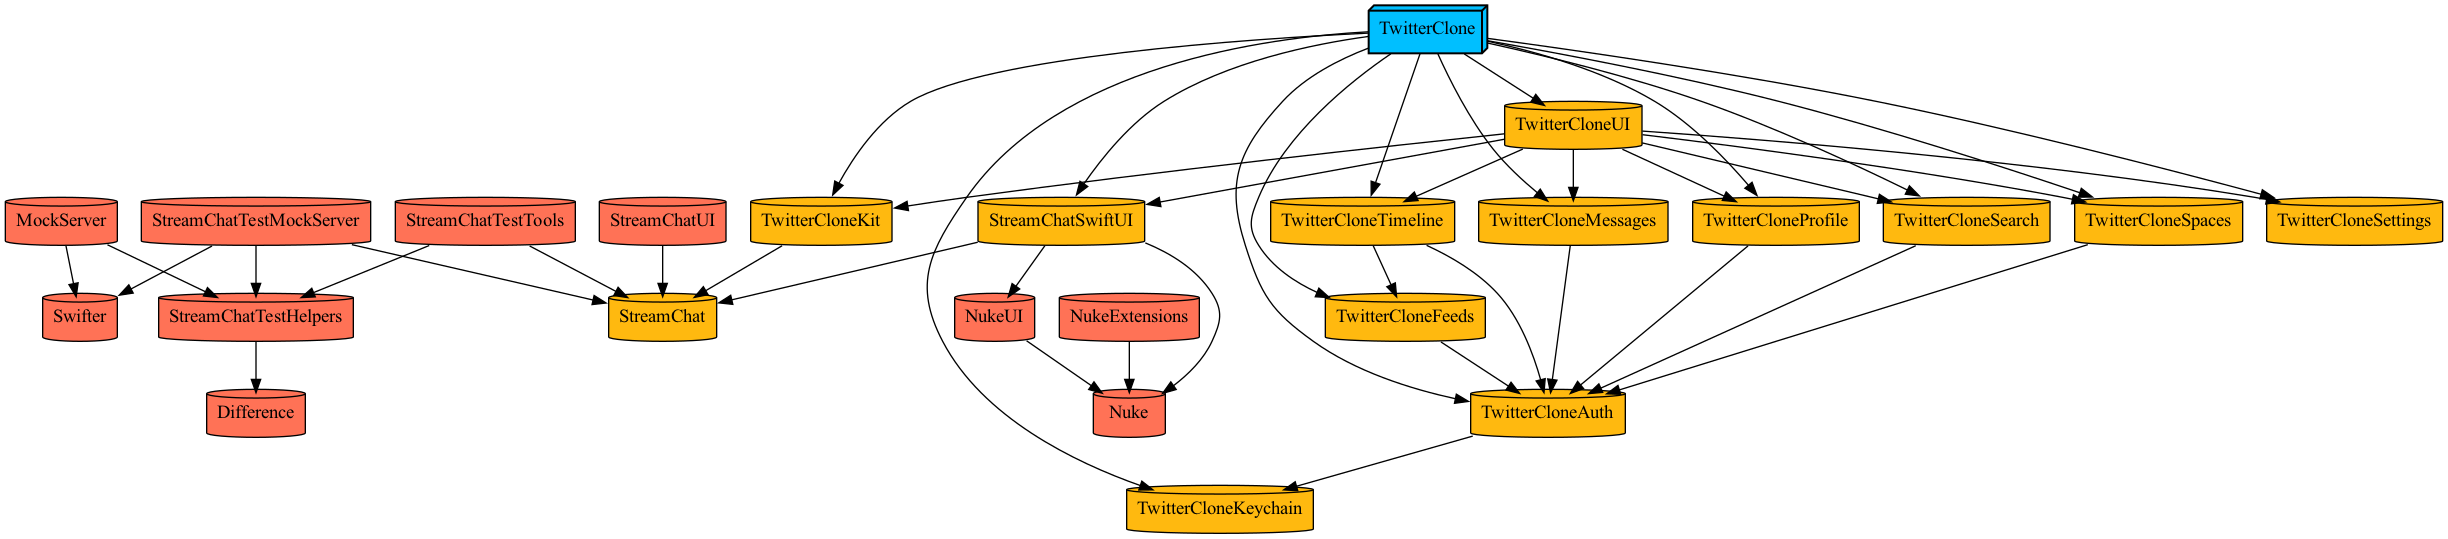
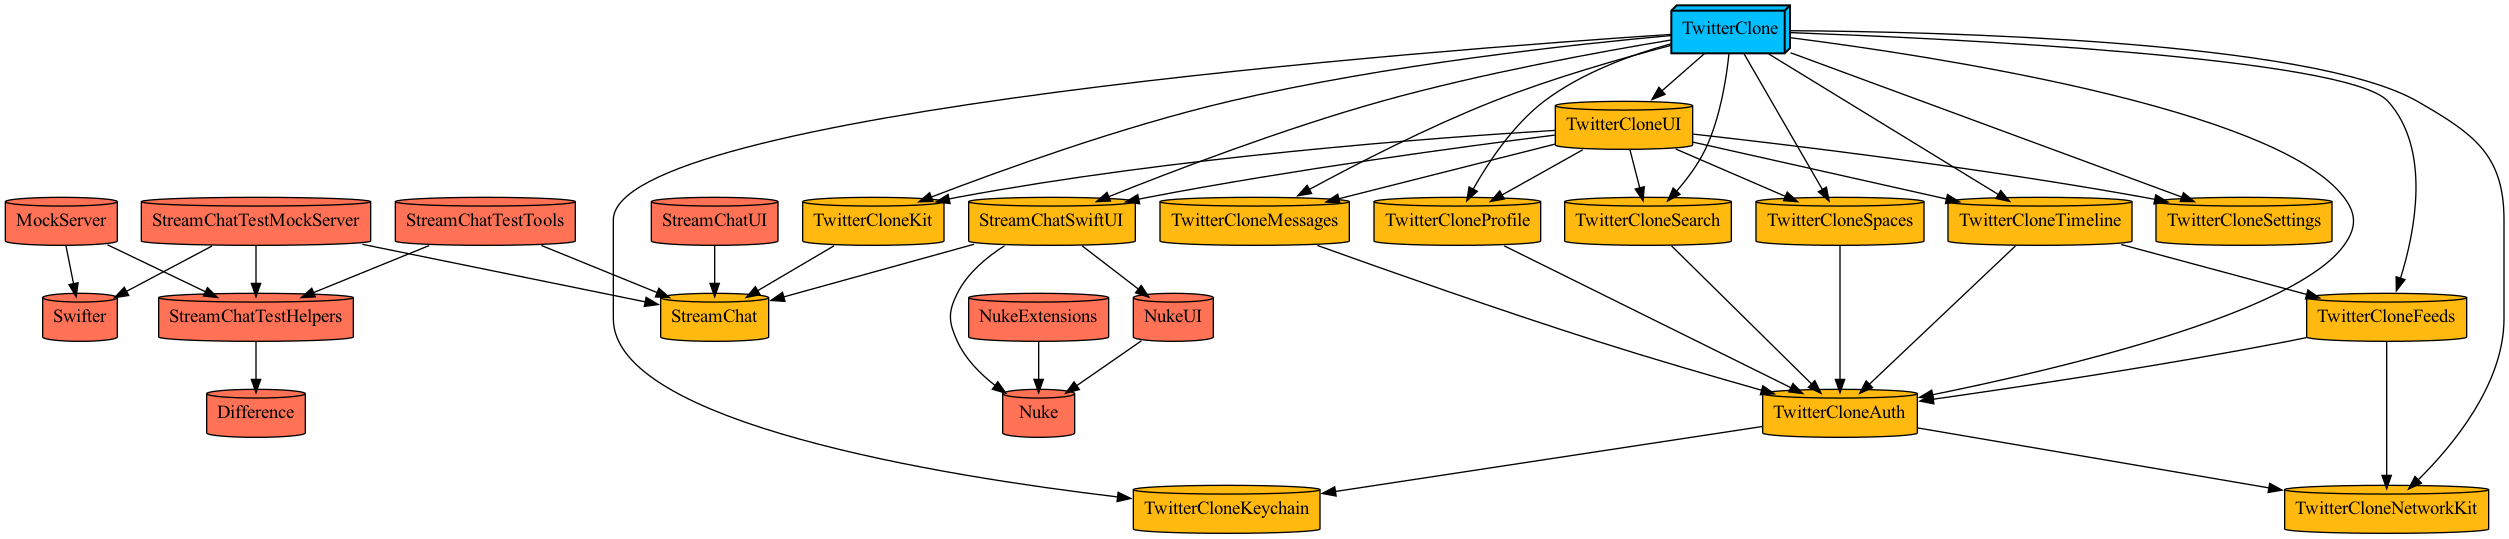
Add base feed client and networking kit

diff --git a/TwitterClone/Targets/TwitterCloneAuth/Sources/TwitterCloneAuth.swift b/TwitterClone/Targets/TwitterCloneAuth/Sources/TwitterCloneAuth.swift
@@ -1,6 +1,7 @@
 import Foundation
 
 import TwitterCloneKeychain
+import TwitterCloneNetworkKit
 
 private enum AuthKeychainKey: String {
     case feedToken
@@ -31,30 +32,43 @@ private struct LoginCredential: Encodable {
 }
 
 public enum AuthError: Error {
-    case badResponse
-    case serverError
-    case unauthorized
-    
-    case unhandled
-    
-    case noStatus
+    case noStoredAuthUser
 }
 
 public final class TwitterCloneAuth {
     let signupUrl: URL
     let loginUrl: URL
-    let jsonEncoder: JSONEncoder
-    let jsonDecoder: JSONDecoder
-
+    
     public init() {
         // TODO: Make baseUrl dynamic
         signupUrl = URL(string: "http://localhost:8080/auth/signup")!
         loginUrl = URL(string: "http://localhost:8080/auth/login")!
-
-        jsonEncoder = JSONEncoder()
-        jsonEncoder.outputFormatting = .prettyPrinted
-
-        jsonDecoder = JSONDecoder()
+    }
+    
+    public var feedToken: String? {
+        return KeyChainHelper.shared.string(forKey: AuthKeychainKey.feedToken.rawValue, requireUserpresence: false)
+    }
+    
+    public var chatToken: String? {
+        return KeyChainHelper.shared.string(forKey: AuthKeychainKey.chatToken.rawValue, requireUserpresence: false)
+    }
+    
+    public var username: String? {
+        return KeyChainHelper.shared.string(forKey: AuthKeychainKey.username.rawValue, requireUserpresence: false)
+    }
+    
+    public var userId: String? {
+        return KeyChainHelper.shared.string(forKey: AuthKeychainKey.userId.rawValue, requireUserpresence: false)
+    }
+    
+    public func storedAuthUser() throws-> AuthUser {
+        
+        guard let feedToken = KeyChainHelper.shared.string(forKey: AuthKeychainKey.feedToken.rawValue, requireUserpresence: false) else { throw AuthError.noStoredAuthUser }
+        guard let chatToken = KeyChainHelper.shared.string(forKey: AuthKeychainKey.chatToken.rawValue, requireUserpresence: false) else { throw AuthError.noStoredAuthUser }
+        guard let username = KeyChainHelper.shared.string(forKey: AuthKeychainKey.username.rawValue, requireUserpresence: false) else { throw AuthError.noStoredAuthUser }
+        guard let userId = KeyChainHelper.shared.string(forKey: AuthKeychainKey.userId.rawValue, requireUserpresence: false) else { throw AuthError.noStoredAuthUser }
+        
+        return AuthUser(feedToken: feedToken, chatToken: chatToken, username: username, userId: userId)
     }
     
     public func signup(username: String, password: String) async throws -> AuthUser {
@@ -63,20 +77,19 @@ public final class TwitterCloneAuth {
         var loginRequest = URLRequest(url: signupUrl)
         loginRequest.httpMethod = "POST"
         loginRequest.addValue("application/json", forHTTPHeaderField: "Content-Type")
-        loginRequest.httpBody = try jsonEncoder.encode(credential)
+        loginRequest.httpBody = try TwitterCloneNetworkKit.jsonEncoder.encode(credential)
 
         let (data, response) = try await URLSession.shared.data(for: loginRequest)
         let statusCode = (response as? HTTPURLResponse)?.statusCode
         
-        try checkStatusCode(statusCode: statusCode)
+        try TwitterCloneNetworkKit.checkStatusCode(statusCode: statusCode)
         
-        let jsonDecoder = jsonDecoder
-        return try jsonDecoder.decode(AuthUser.self, from: data)
+        return try TwitterCloneNetworkKit.jsonDecoder.decode(AuthUser.self, from: data)
     }
     
     public func login(username: String, password: String) async throws -> AuthUser {
         let credential = LoginCredential(username: username, password: password)
-        let postData = try jsonEncoder.encode(credential)
+        let postData = try TwitterCloneNetworkKit.jsonEncoder.encode(credential)
         
         var loginRequest = URLRequest(url: loginUrl)
         loginRequest.httpMethod = "POST"
@@ -86,29 +99,8 @@ public final class TwitterCloneAuth {
         let (data, response) = try await URLSession.shared.data(for: loginRequest)
         let statusCode = (response as? HTTPURLResponse)?.statusCode
         
-        try checkStatusCode(statusCode: statusCode)
+        try TwitterCloneNetworkKit.checkStatusCode(statusCode: statusCode)
         
-        let jsonDecoder = jsonDecoder
-        return try jsonDecoder.decode(AuthUser.self, from: data)
+        return try TwitterCloneNetworkKit.jsonDecoder.decode(AuthUser.self, from: data)
     }
-    
-    /// Checks the status code for errors
-    /// - Parameter statusCode: The response status code to check. If it does not throw it is an acceptable status.
-    private func checkStatusCode(statusCode: Int?) throws {
-        guard let statusCode = statusCode else {
-            throw AuthError.noStatus
-        }
-        
-        switch statusCode {
-        case 500:
-            throw AuthError.badResponse
-        case 400:
-            throw AuthError.unauthorized
-        case 200:
-            return
-        default:
-            throw AuthError.unhandled
-        }
-    }
-    
 }

diff --git a/TwitterClone/Project.swift b/TwitterClone/Project.swift
@@ -8,6 +8,7 @@ import MyPlugin
 let localHelper = LocalHelper(name: "MyPlugin")
 
 let kitName = "TwitterCloneKit"
+let networkKitName = "TwitterCloneNetworkKit"
 let uiName = "TwitterCloneUI"
 let authorizationName = "TwitterCloneAuth"
 let keychainName = "TwitterCloneKeychain"
@@ -27,9 +28,10 @@ let settingsTarget = Project.makeFrameworkTargets(name: settingsName, platform: 
 let timelineTarget = Project.makeFrameworkTargets(name: timelineName, platform: .iOS, dependencies: [.target(name: authorizationName), .target(name: feedsName)])
 let spacesTarget = Project.makeFrameworkTargets(name: spacesName, platform: .iOS, dependencies: [.target(name: authorizationName)])
 
-let feedsTarget = Project.makeFrameworkTargets(name: feedsName, platform: .iOS, dependencies: [.target(name: authorizationName)])
+let feedsTarget = Project.makeFrameworkTargets(name: feedsName, platform: .iOS, dependencies: [.target(name: authorizationName), .target(name: networkKitName)])
 
 let kitTarget = Project.makeFrameworkTargets(name: kitName, platform: .iOS, dependencies: [.external(name: "StreamChat")])
+let networkKitTarget = Project.makeFrameworkTargets(name: networkKitName, platform: .iOS, dependencies: [])
 let uiTarget = Project.makeFrameworkTargets(name: uiName,
                                             platform: .iOS,
                                             dependencies: [
@@ -42,7 +44,7 @@ let uiTarget = Project.makeFrameworkTargets(name: uiName,
                                                 .target(name: spacesName),
                                                 .target(name: timelineName)])
 
-let authorizationTarget = Project.makeFrameworkTargets(name: authorizationName, platform: .iOS, dependencies: [.target(name: keychainName)])
+let authorizationTarget = Project.makeFrameworkTargets(name: authorizationName, platform: .iOS, dependencies: [.target(name: keychainName), .target(name: networkKitName)])
 let keychainHelperTarget = Project.makeFrameworkTargets(name: keychainName, platform: .iOS, dependencies: [])
 
 
@@ -51,6 +53,6 @@ let project = Project.app(name: "TwitterClone",
                           platform: .iOS,
                           packages: [],
                           dependencies: [.external(name: "StreamChatSwiftUI")],
-                          additionalTargets: kitTarget + uiTarget + authorizationTarget + keychainHelperTarget + messagesTarget + profileTarget + searchTarget + settingsTarget + timelineTarget + spacesTarget + feedsTarget)
+                          additionalTargets: kitTarget + uiTarget + authorizationTarget + keychainHelperTarget + messagesTarget + profileTarget + searchTarget + settingsTarget + timelineTarget + spacesTarget + feedsTarget + networkKitTarget)
 
 

diff --git a/TwitterClone/Targets/TwitterCloneFeeds/Sources/FeedsClient.swift b/TwitterClone/Targets/TwitterCloneFeeds/Sources/FeedsClient.swift
@@ -1,0 +1,63 @@
+//
+//  FeedsClient.swift
+//  TwitterCloneFeeds
+//
+//  Created by Jeroen Leenarts on 18/01/2023.
+//  Copyright © 2023 tuist.io. All rights reserved.
+//
+
+import Foundation
+import TwitterCloneAuth
+import TwitterCloneNetworkKit
+
+enum Region: String {
+    case usEast = "https://us-east-api.stream-io-api.com/api/v1.0/"
+    case euWest = "https://eu-west-api.stream-io-api.com/api/v1.0/"
+    case singapore = "https://singapore-api.stream-io-api.com/api/v1.0/"
+}
+
+public class FeedsClient {
+    let baseUrl: URL
+    
+    let auth = TwitterCloneAuth()
+    
+    private func userFeedURL(userId: String)-> URL {
+        
+        var newURL = baseUrl.appending(component: "feed/user")
+        newURL.append(path: userId)
+        newURL.append(queryItems: [URLQueryItem(name: "api_key", value: "dn4mpr346fns")])
+        
+        return newURL
+    }
+    
+    static func productionClient(region: Region) -> FeedsClient {
+        return FeedsClient(urlString: region.rawValue)
+    }
+    
+    private init(urlString: String) {
+        baseUrl = URL(string: urlString)!
+    }
+    
+    public func getActivities() async throws -> [Activity] {
+        let session = TwitterCloneNetworkKit.restSession
+        
+        let authUser = try auth.storedAuthUser()
+
+        let userId = authUser.userId
+        let feedToken = authUser.feedToken
+        var request = URLRequest(url: userFeedURL(userId: userId))
+        request.httpMethod = "GET"
+
+        // Headers
+        request.addValue("jwt", forHTTPHeaderField: "Stream-Auth-Type")
+        request.addValue(feedToken, forHTTPHeaderField: "Authorization")
+
+        let (data, response) = try await session.data(for: request)
+        
+        let statusCode = (response as? HTTPURLResponse)?.statusCode
+        
+        try TwitterCloneNetworkKit.checkStatusCode(statusCode: statusCode)
+        
+        return try TwitterCloneNetworkKit.jsonDecoder.decode([Activity].self, from: data)
+    }
+}

diff --git a/TwitterClone/Targets/TwitterCloneNetworkKit/Sources/TwitterCloneNetworkKit.swift b/TwitterClone/Targets/TwitterCloneNetworkKit/Sources/TwitterCloneNetworkKit.swift
@@ -1,0 +1,64 @@
+import Foundation
+import StreamChat
+
+public enum StatusCodeError: Error {
+case badResponse
+case serverError
+case unauthorized
+
+case unhandled
+
+case noStatus
+}
+
+public final class TwitterCloneNetworkKit {
+    public static func hello() {
+        print("Hello, from your Kit framework")
+    }
+    
+    /// Checks the status code for errors
+    /// - Parameter statusCode: The response status code to check. If it does not throw it is an acceptable status.
+    static public func checkStatusCode(statusCode: Int?) throws {
+        guard let statusCode = statusCode else {
+            throw StatusCodeError.noStatus
+        }
+        
+        switch statusCode {
+        case 500:
+            throw StatusCodeError.badResponse
+        case 400:
+            throw StatusCodeError.unauthorized
+        case 200:
+            return
+        default:
+            throw StatusCodeError.unhandled
+        }
+    }
+    
+    
+    static public var jsonEncoder: JSONEncoder {
+        let jsonEncoder = JSONEncoder()
+        jsonEncoder.outputFormatting = .prettyPrinted
+        return jsonEncoder
+    }
+    
+    static public var jsonDecoder: JSONDecoder {
+        return JSONDecoder()
+    }
+    
+    static public var restSession: URLSession {
+        /* Configure session, choose between:
+         * defaultSessionConfiguration
+         * ephemeralSessionConfiguration
+         * backgroundSessionConfigurationWithIdentifier:
+         And set session-wide properties, such as: HTTPAdditionalHeaders,
+         HTTPCookieAcceptPolicy, requestCachePolicy or timeoutIntervalForRequest.
+         */
+        let sessionConfig = URLSessionConfiguration.ephemeral
+        
+        /* Create session, and optionally set a URLSessionDelegate. */
+        let session = URLSession(configuration: sessionConfig, delegate: nil, delegateQueue: nil)
+        
+        return session
+    }
+}

diff --git a/TwitterClone/Targets/TwitterCloneFeeds/Sources/Activity.swift b/TwitterClone/Targets/TwitterCloneFeeds/Sources/Activity.swift
@@ -1,0 +1,14 @@
+//
+//  Activity.swift
+//  TwitterCloneFeeds
+//
+//  Created by Jeroen Leenarts on 19/01/2023.
+//  Copyright © 2023 tuist.io. All rights reserved.
+//
+
+import Foundation
+
+
+public class Activity: Decodable {
+    
+}

diff --git a/TwitterClone/Targets/TwitterCloneNetworkKit/Tests/TwitterCloneNetworkKit.swift b/TwitterClone/Targets/TwitterCloneNetworkKit/Tests/TwitterCloneNetworkKit.swift
@@ -1,0 +1,8 @@
+import Foundation
+import XCTest
+
+final class TwitterCloneNetworkKit: XCTestCase {
+    func test_example() {
+        XCTAssertEqual("TwitterCloneNetworkKit", "TwitterCloneNetworkKit")
+    }
+}
